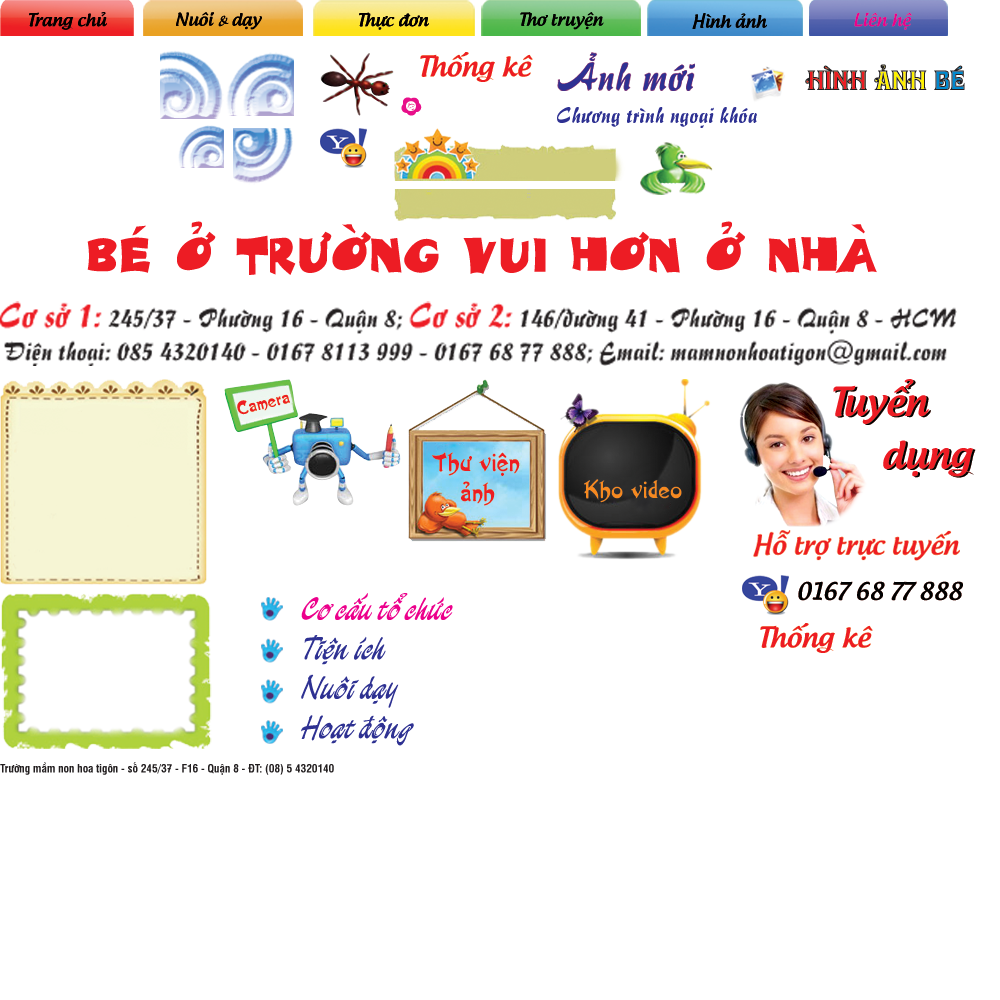
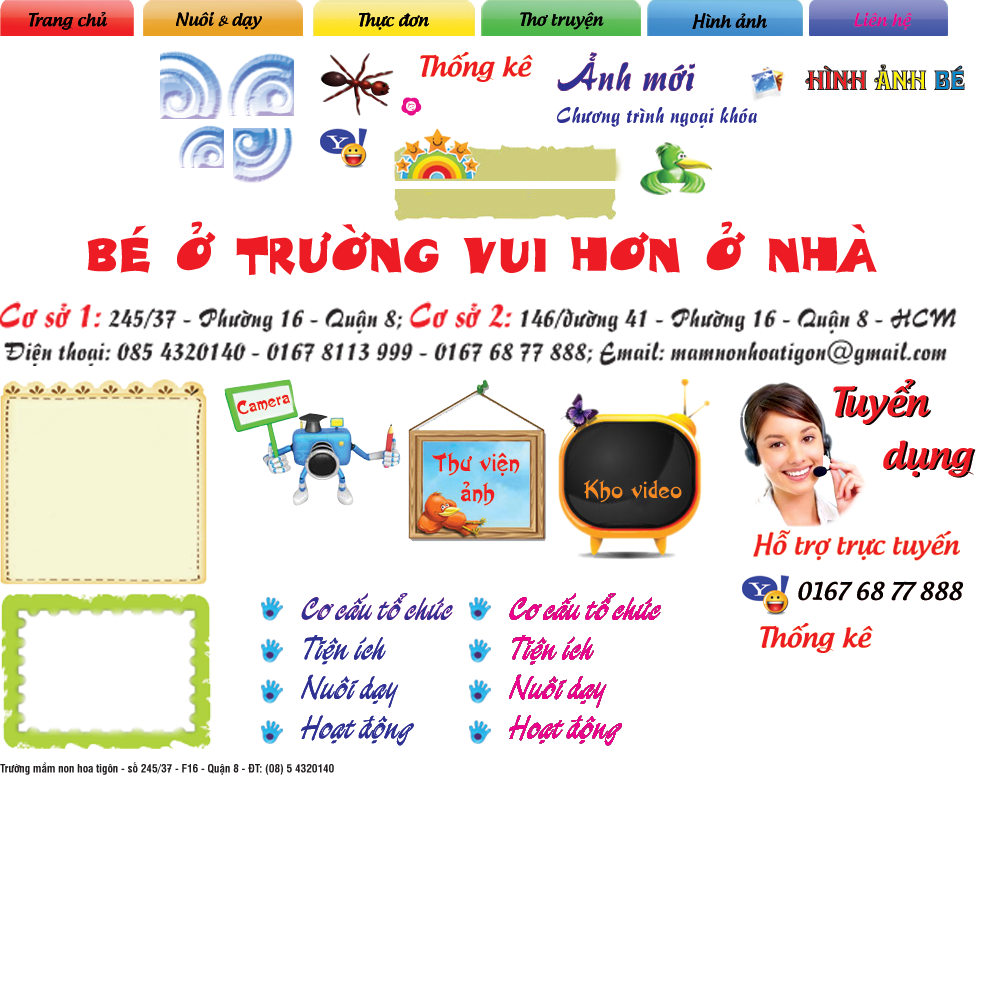
Update hoatigon

Changed region(s): [[0.31, 0.589, 0.682, 0.744], [0.31, 0.651, 0.403, 0.744]]

diff --git a/hoatigon/templates/t3_blank/css/custom.css b/hoatigon/templates/t3_blank/css/custom.css
@@ -48,10 +48,10 @@ footer div.icons { height: 154px; background-position: 0 -220px; margin-top: 20p
 /* end layout */
 
 /* other */
-.xoay-tren {}
-.xoay-duoi-1 {}
-.xoay-duoi-2 {}
-.xoay-duoi-2 {}
+.xoay-tren { width: 69px; height: 64px; background-position: -230px -128px; top: 0px; left: -3px; }
+.xoay-duoi-1 { width: 69px; height: 64px; background-position: -230px -54px; bottom: -3px; right: -5px; }
+.xoay-duoi-2 { width: 69px; height: 64px; background-position: -230px -54px; bottom: -3px; right: -5px; }
+.xoay-duoi-3 { width: 69px; height: 64px; background-position: -230px -54px; bottom: -3px; right: -5px; }
 .con-kien { width: 74px; height: 64px; background-position: -321px -52px; top: -40px; left: -7px; }
 .con-chim { width: 73px; height: 54px; background-position: -640px -141px; top: -42px; left: -5px; }
 .top-slider-image { margin-bottom: 25px; margin-left: 15px; }
@@ -64,12 +64,17 @@ footer div.icons { height: 154px; background-position: 0 -220px; margin-top: 20p
 .left-menu a.nuoi-day { background-position: -258px -673px; height: 36px; }
 .left-menu a.hoat-dong { background-position: -258px -715px; height: 34px; }
 
+.left-menu a.co-cau-to-chuc:hover, .left-menu a.co-cau-to-chuc-active { background-position: -466px -592px; }
+.left-menu a.tien-ich:hover, .left-menu a.tien-ich-active { background-position: -466px -634px; height: 32px; }
+.left-menu a.nuoi-day:hover, .left-menu a.nuoi-day-active { background-position: -466px -673px; height: 36px; }
+.left-menu a.hoat-dong:hover, .left-menu a.hoat-dong-active { background-position: -466px -715px; height: 34px; }
+
 .left-album div.anh-moi { width: 139px; height: 41px; margin-right: 35px; background-position: -557px -53px; margin-top: 7px; }
 
 .new-album-container { padding: 15px 0 30px 9px; margin-left: 15px; }
 .new-album-frame { background-position: 0 -585px; width: 212px; height: 165px; display: block; top: 0; left: 0; }
 
-.chuong-trinh-ngoai-khoa { background-position: -557px -108px; width: 201px; height: 21px; margin-left: 21px; }
+.txt-chuong-trinh-ngoai-khoa { background-position: -557px -108px; width: 201px; height: 21px; margin-left: 21px; }
 .anh-chuong-trinh-ngoai-khoa { background-position: 0 -382px; width: 207px; height: 206px; margin-left: 18px; margin-bottom: 15px;  }
 .anh-chuong-trinh-ngoai-khoa img { margin: 40px 0 0 14px; }
 
@@ -79,12 +84,12 @@ footer div.icons { height: 154px; background-position: 0 -220px; margin-top: 20p
 .left-other .yahoo-support { display: inline-block; width: 48px; height: 40px; background-position: -741px -575px; }
 .left-other .so-dien-thoai { display: inline-block; width: 169px; height: 35px; background-position: -796px -579px; margin-left: 5px; }
 .left-other .txt-stat { width: 150px; height: 40px; background-position: -739px -619px; margin-left: 35px; }
-.left-other .stat-info { height: 80px; padding: 10px 30px; }
+.left-other .stat-info { height: 80px; padding: 10px 30px 45px 30px; }
 
 /* end left */
 
 /* right */
-.right-other { padding: 30px 0; margin-bottom: 10px; text-align: center; }
+.right-other { padding: 50px 0 30px 0; margin-bottom: 10px; text-align: center; }
 .right-other a { display: block; margin-bottom: 15px; }
 .right-other a.camera { width: 177px; height: 130px; background-position: -223px -378px; margin-left: 15px; }
 .right-other a.thu-vien-anh { width: 139px; height: 163px; background-position: -408px -379px; margin-left: 42px; }

diff --git a/hoatigon/templates/t3_blank/html/com_content/article/default.php b/hoatigon/templates/t3_blank/html/com_content/article/default.php
@@ -56,7 +56,7 @@ if (!empty($this->item->pagination) AND $this->item->pagination && !$this->item-
 	</h2>
 <?php endif; ?>
 
-<?php if ($canEdit ||  $params->get('show_print_icon') || $params->get('show_email_icon')) : ?>
+<?php /* if ($canEdit ||  $params->get('show_print_icon') || $params->get('show_email_icon')) : ?>
 	<ul class="actions">
 	<?php if (!$this->print) : ?>
 		<?php if ($params->get('show_print_icon')) : ?>
@@ -84,7 +84,7 @@ if (!empty($this->item->pagination) AND $this->item->pagination && !$this->item-
 	<?php endif; ?>
 
 	</ul>
-<?php endif; ?>
+<?php endif; */ ?>
 
 <?php  if (!$params->get('show_intro')) :
 	echo $this->item->event->afterDisplayTitle;
@@ -92,15 +92,15 @@ endif; ?>
 
 <?php echo $this->item->event->beforeDisplayContent; ?>
 
-<?php $useDefList = (($params->get('show_author')) or ($params->get('show_category')) or ($params->get('show_parent_category'))
+<?php /* $useDefList = (($params->get('show_author')) or ($params->get('show_category')) or ($params->get('show_parent_category'))
 	or ($params->get('show_create_date')) or ($params->get('show_modify_date')) or ($params->get('show_publish_date'))
-	or ($params->get('show_hits'))); ?>
+	or ($params->get('show_hits'))); */ ?>
 
-<?php if ($useDefList) : ?>
+<?php /* if ($useDefList) : ?>
 	<dl class="article-info">
 	<dt class="article-info-term"><?php  echo JText::_('COM_CONTENT_ARTICLE_INFO'); ?></dt>
-<?php endif; ?>
-<?php if ($params->get('show_parent_category') && $this->item->parent_slug != '1:root') : ?>
+<?php endif; */ ?>
+<?php /*if ($params->get('show_parent_category') && $this->item->parent_slug != '1:root') : ?>
 	<dd class="parent-category-name">
 	<?php	$title = $this->escape($this->item->parent_title);
 	$url = '<a href="'.JRoute::_(ContentHelperRoute::getCategoryRoute($this->item->parent_slug)).'">'.$title.'</a>';?>
@@ -181,7 +181,7 @@ endif; ?>
 	endif; ?>
 	src="<?php echo htmlspecialchars($images->image_fulltext); ?>" alt="<?php echo htmlspecialchars($images->image_fulltext_alt); ?>"/>
 </div>
-<?php endif; ?>
+<?php endif; */ ?>
 <?php
 if (!empty($this->item->pagination) AND $this->item->pagination AND !$this->item->paginationposition AND !$this->item->paginationrelative):
 	echo $this->item->pagination;
@@ -191,16 +191,16 @@ if (!empty($this->item->pagination) AND $this->item->pagination AND !$this->item
 	<?php echo $this->item->text; ?>
 </div>
 
-<?php
+<?php /*
 if (!empty($this->item->pagination) AND $this->item->pagination AND $this->item->paginationposition AND!$this->item->paginationrelative):
 	 echo $this->item->pagination;?>
-<?php endif; ?>
+<?php endif; */ ?>
 
-<?php if (isset($urls) AND ((!empty($urls->urls_position)  AND ($urls->urls_position=='1')) OR ( $params->get('urls_position')=='1') )): ?>
+<?php /* if (isset($urls) AND ((!empty($urls->urls_position)  AND ($urls->urls_position=='1')) OR ( $params->get('urls_position')=='1') )): ?>
 <?php echo $this->loadTemplate('links'); ?>
-<?php endif; ?>
+<?php endif; */ ?>
 	<?php //optional teaser intro text for guests ?>
-<?php elseif ($params->get('show_noauth') == true and  $user->get('guest') ) : ?>
+<?php /* elseif ($params->get('show_noauth') == true and  $user->get('guest') ) : ?>
 	<?php echo $this->item->introtext; ?>
 	<?php //Optional link to let them register to see the whole article. ?>
 	<?php if ($params->get('show_readmore') && $this->item->fulltext != null) :
@@ -225,11 +225,11 @@ if (!empty($this->item->pagination) AND $this->item->pagination AND $this->item-
 		endif; ?></a>
 		</p>
 	<?php endif; ?>
-<?php endif; ?>
-<?php
+<?php endif; */ ?>
+<?php /*
 if (!empty($this->item->pagination) AND $this->item->pagination AND $this->item->paginationposition AND $this->item->paginationrelative):
 	 echo $this->item->pagination;?>
-<?php endif; ?>
+<?php endif; */ ?>
 
 <?php echo $this->item->event->afterDisplayContent; ?>
 </div>

diff --git a/hoatigon/modules/mod_left_menu/tmpl/default.php b/hoatigon/modules/mod_left_menu/tmpl/default.php
@@ -8,12 +8,15 @@
 
 // no direct access
 defined('_JEXEC') or die;
+
+$itemId = JRequest::getInt('Itemid');
 ?>
 
 <div class="left-menu box bg round relative">
-	<a href="<?php echo JRoute::_('index.php?Itemid=109', false); ?>" class="icons co-cau-to-chuc"></a>
-	<a href="<?php echo JRoute::_('index.php?Itemid=110', false); ?>" class="icons tien-ich"></a>
-	<a href="<?php echo JRoute::_('index.php?Itemid=104', false); ?>" class="icons nuoi-day"></a>
-	<a href="<?php echo JRoute::_('index.php?Itemid=112', false); ?>" class="icons hoat-dong"></a>
+	<a href="<?php echo JRoute::_('index.php?Itemid=109', false); ?>" class="icons co-cau-to-chuc<?php if ($itemId == 109) echo ' co-cau-to-chuc-active'; ?>"></a>
+	<a href="<?php echo JRoute::_('index.php?Itemid=110', false); ?>" class="icons tien-ich<?php if ($itemId == 110) echo ' tien-ich-active'; ?>"></a>
+	<a href="<?php echo JRoute::_('index.php?Itemid=104', false); ?>" class="icons nuoi-day<?php if ($itemId == 104) echo ' nuoi-day-active'; ?>"></a>
+	<a href="<?php echo JRoute::_('index.php?Itemid=112', false); ?>" class="icons hoat-dong<?php if ($itemId == 112) echo ' hoat-dong-active'; ?>"></a>
 	<div class="icons absolute con-chim"></div>
+	<div class="icons absolute xoay-duoi-1"></div>
 </div>

diff --git a/hoatigon/modules/mod_left_other/tmpl/default.php b/hoatigon/modules/mod_left_other/tmpl/default.php
@@ -19,7 +19,19 @@ defined('_JEXEC') or die;
 	</div>
 	<div class="txt-stat icons"></div>
 	<div class="stat-info">
-		Thông tin thống kê
+		<!-- Histats.com  (div with counter) --><div id="histats_counter"></div>
+		<!-- Histats.com  START  (aync)-->
+		<script type="text/javascript">var _Hasync= _Hasync|| [];
+		_Hasync.push(['Histats.start', '1,2481560,4,406,165,100,00011110']);
+		_Hasync.push(['Histats.fasi', '1']);
+		_Hasync.push(['Histats.track_hits', '']);
+		(function() {
+		var hs = document.createElement('script'); hs.type = 'text/javascript'; hs.async = true;
+		hs.src = ('http://s10.histats.com/js15_as.js');
+		(document.getElementsByTagName('head')[0] || document.getElementsByTagName('body')[0]).appendChild(hs);
+		})();</script>
+		<noscript><a href="http://www.histats.com" target="_blank"><img  src="http://sstatic1.histats.com/0.gif?2481560&101" alt="web tracker" border="0"></a></noscript>
+		<!-- Histats.com  END  -->
 	</div>
 	<div class="icons absolute con-kien"></div>
 	<div class="icons absolute xoay-duoi-1"></div>

diff --git a/hoatigon/modules/mod_left_album/tmpl/default.php b/hoatigon/modules/mod_left_album/tmpl/default.php
@@ -30,7 +30,7 @@ while ($file = readdir($dir)) {
 }
 ?>
 
-<div class="left-album box bg round">
+<div class="left-album box bg round relative">
 	<div class="icons anh-moi fltrgt"></div>
 	<div class="clr"></div>
 	<div class="new-album-container relative">
@@ -44,7 +44,7 @@ while ($file = readdir($dir)) {
 		</ul>
 		<span class="new-album-frame icons absolute"></span>
 	</div>
-	<div class="icons chuong-trinh-ngoai-khoa"></div>
+	<div class="icons txt-chuong-trinh-ngoai-khoa"></div>
 	<div class="icons anh-chuong-trinh-ngoai-khoa">
 		<ul class="chuong-trinh-ngoai-khoa">
 			<?php 
@@ -55,6 +55,8 @@ while ($file = readdir($dir)) {
 			<?php endwhile; ?>
 		</ul>
 	</div>
+	
+	<div class="icons absolute xoay-tren"></div>
 </div>
 
 <script type="text/javascript">

diff --git a/hoatigon/modules/mod_right_other/tmpl/default.php b/hoatigon/modules/mod_right_other/tmpl/default.php
@@ -15,6 +15,6 @@ defined('_JEXEC') or die;
 	<a href="<?php echo JRoute::_('index.php?Itemid=107', false); ?>" class="icons thu-vien-anh"></a>
 	<a href="<?php echo JRoute::_('index.php?Itemid=121', false); ?>" class="icons kho-video"></a>
 	
-	<div class="icons absolute xoay-tren-1"></div>
+	<div class="icons absolute xoay-tren"></div>
 	<div class="icons absolute xoay-duoi-2"></div>
 </div>
